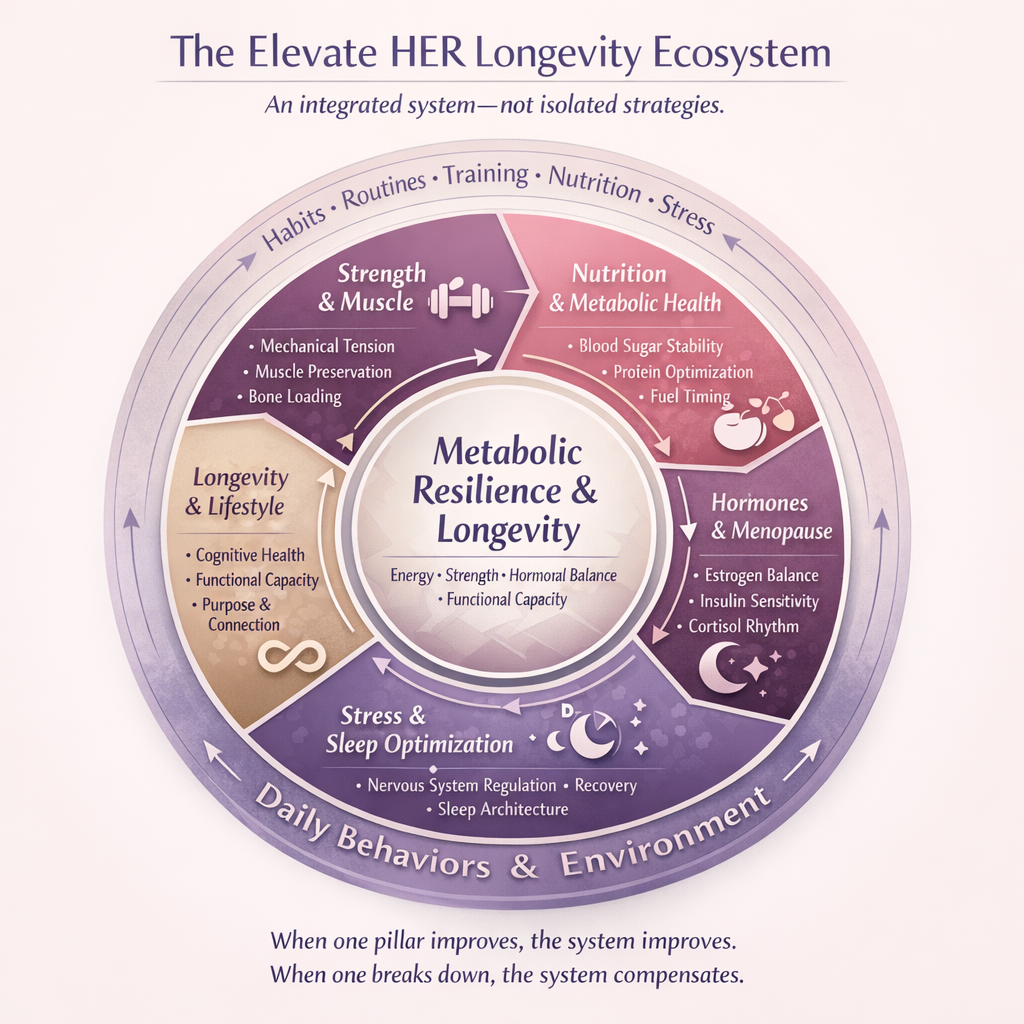
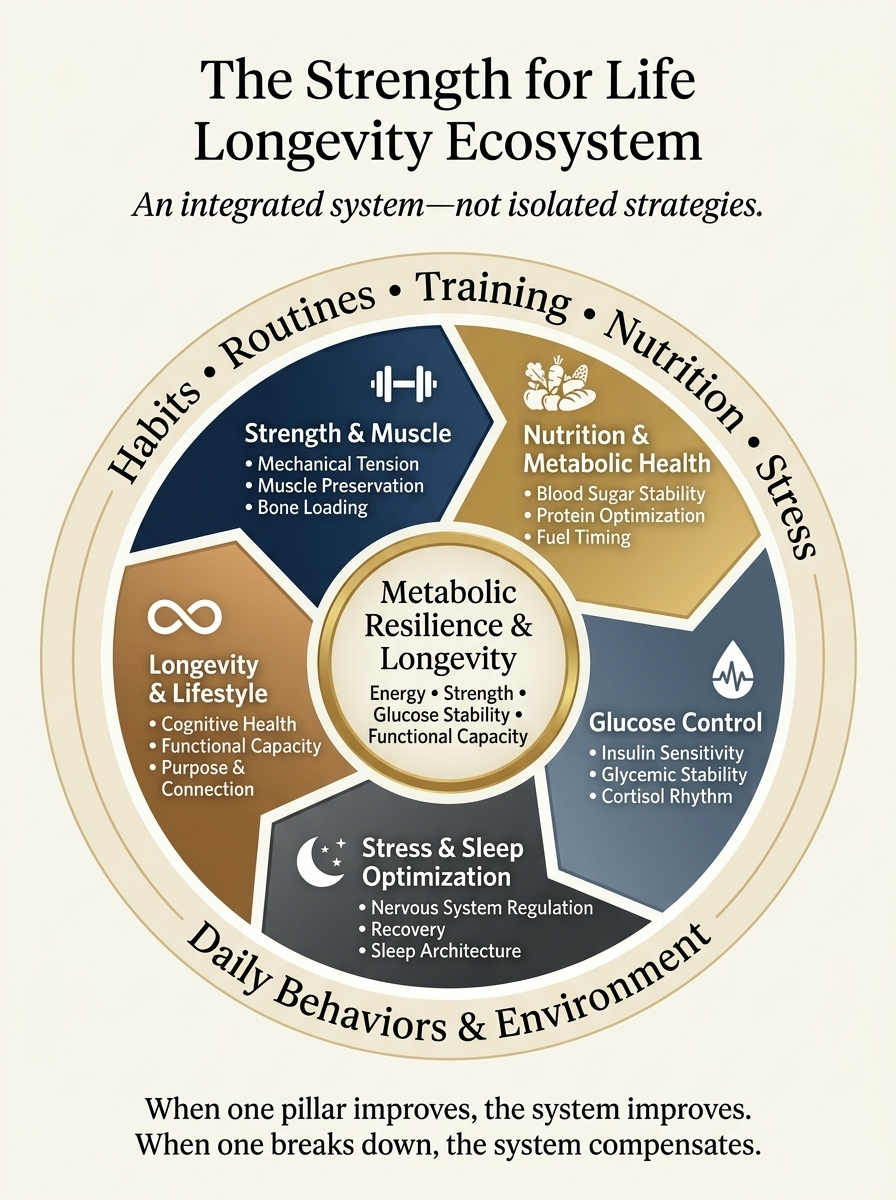
Update all Framework infographics (pillars, wheel, longevity) to Strength for Life branding and Glucose Control

diff --git a/src/app/(protected)/framework/page.js b/src/app/(protected)/framework/page.js
@@ -64,9 +64,9 @@ export default function FrameworkPage() {
             <p><strong>The Interconnection in Action:</strong></p>
             <ul>
               <li><strong>Strength ↔ Nutrition:</strong> Strength training creates the stimulus for muscle adaptation, but nutrition determines whether the body has the resources to respond. If protein is insufficient, recovery is delayed.</li>
-              <li><strong>Nutrition ↔ Hormones:</strong> Inadequate caloric intake or unstable blood sugar can elevate cortisol and increase stress hormones, accelerating muscle loss.</li>
-              <li><strong>Recovery ↔ Sleep:</strong> Physiological stress disrupts sleep architecture, while poor sleep worsens hormonal balance and recovery capacity, creating a feedback loop of fatigue.</li>
-              <li><strong>Stress ↔ Metabolism:</strong> Chronic stress elevates cortisol, impairing insulin sensitivity and promoting visceral fat storage. Stress management is a key metabolic intervention.</li>
+              <li><strong>Nutrition ↔ Glucose Control:</strong> Unstable blood sugar and inadequate protein intake trigger insulin spikes, energy crashes, and elevated cortisol—accelerating visceral fat storage and muscle breakdown.</li>
+              <li><strong>Recovery ↔ Sleep:</strong> Physiological stress disrupts sleep architecture, while poor sleep worsens glucose tolerance, insulin sensitivity, and recovery capacity, creating a feedback loop of fatigue.</li>
+              <li><strong>Stress ↔ Metabolism:</strong> Chronic stress elevates cortisol and blood glucose, impairing insulin sensitivity and promoting visceral fat storage. Stress management is a key metabolic intervention.</li>
             </ul>
           </div>
         </>
@@ -74,9 +74,9 @@ export default function FrameworkPage() {
     },
     {
       id: 'longevity',
-      title: 'The Longevity Curve',
+      title: 'The Longevity Ecosystem',
       src: '/longevity.png',
-      alt: 'Graph showing the trajectory of longevity based on interventions.',
+      alt: 'The Strength for Life Longevity Ecosystem showing how all five pillars integrate.',
       content: (
         <>
           <p>
